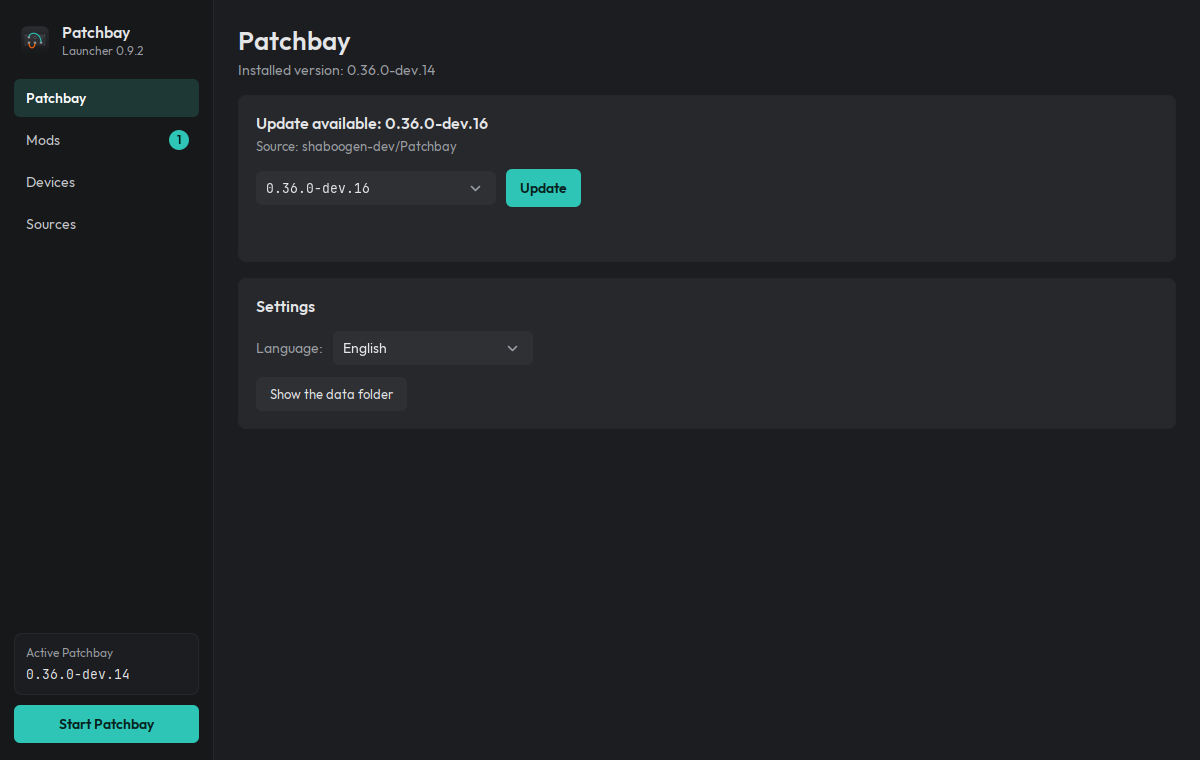
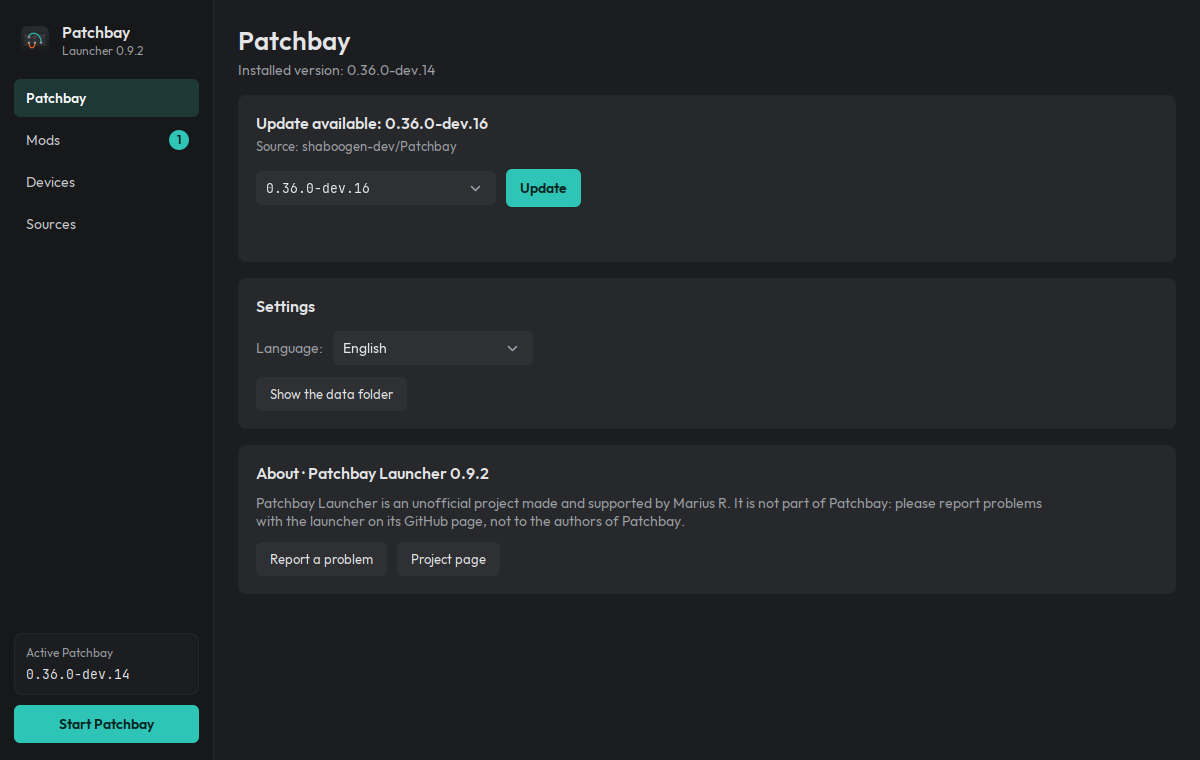
About card: made and supported by Marius R; Report a problem
As asked by Patchbay's author: make clear the launcher is a separate,
unofficial project supported by its own author, so support questions
come here and not to Patchbay.
- About card in the Patchbay section with "Report a problem" (this
  repository's Issues) and "Project page"; Polish, English, German, French.
- Support note in the Windows and macOS install texts.

Claude-Session: https://claude.ai/code/session_01NY4XL7uJczLdFhWieRK4LM

Changed region(s): [[0.2158, 0.6053, 0.8633, 0.6961], [0.2158, 0.7263, 0.3083, 0.7566], [0.3392, 0.7263, 0.4008, 0.7566]]

diff --git a/src/PatchbayLauncher.java b/src/PatchbayLauncher.java
@@ -516,11 +516,50 @@ public final class PatchbayLauncher {
         settings.add(s, BorderLayout.CENTER);
         settings.setAlignmentX(Component.LEFT_ALIGNMENT);
         col.add(settings);
+        col.add(Box.createVerticalStrut(16));
+        col.add(aboutCard());
 
         JPanel top = new JPanel(new BorderLayout());
         top.setOpaque(false);
         top.add(col, BorderLayout.NORTH);
         return Theme.page("Patchbay", installedLabel, null, top, null, null);
+    }
+
+    /** The launcher's own GitHub page, where its problems are reported (not Patchbay's). */
+    static final String PROJECT = "https://github.com/arius77R/patchbay-launcher";
+
+    /** Who makes the launcher and where to report problems with it, so they don't go to Patchbay's authors. */
+    private JPanel aboutCard() {
+        JPanel card = new Theme.Card(new BorderLayout(), Theme.FRAME);
+        card.setBorder(new EmptyBorder(18, 18, 18, 18));
+        JPanel a = new JPanel();
+        a.setOpaque(false);
+        a.setLayout(new BoxLayout(a, BoxLayout.Y_AXIS));
+        JLabel head = Theme.label(t("O aplikacji", "About") + " · Patchbay Launcher " + VERSION, Theme.bold(16f), Theme.TEXT);
+        head.setAlignmentX(Component.LEFT_ALIGNMENT);
+        a.add(head);
+        a.add(Box.createVerticalStrut(10));
+        JLabel who = Theme.wrapped(t(
+            "Patchbay Launcher to nieoficjalny projekt, który tworzy i wspiera Marius R. Nie jest częścią Patchbay: problemy z Launcherem zgłaszaj na jego stronie na GitHubie, a nie autorom Patchbay.",
+            "Patchbay Launcher is an unofficial project made and supported by Marius R. It is not part of Patchbay: please report problems with the launcher on its GitHub page, not to the authors of Patchbay."),
+            620, Theme.MUTED, 14f);
+        who.setAlignmentX(Component.LEFT_ALIGNMENT);
+        a.add(who);
+        a.add(Box.createVerticalStrut(12));
+        JButton report = Theme.button(t("Zgłoś problem", "Report a problem"), "secondary");
+        report.addActionListener(e -> browse(PROJECT + "/issues"));
+        JButton page = Theme.button(t("Strona projektu", "Project page"), "secondary");
+        page.addActionListener(e -> browse(PROJECT));
+        JPanel links = Theme.row(10, report, page);
+        links.setAlignmentX(Component.LEFT_ALIGNMENT);
+        a.add(links);
+        card.add(a, BorderLayout.CENTER);
+        card.setAlignmentX(Component.LEFT_ALIGNMENT);
+        return card;
+    }
+
+    private static void browse(String url) {
+        try { Desktop.getDesktop().browse(java.net.URI.create(url)); } catch (Exception ignored) { }
     }
 
     private void show() {

diff --git a/src/I18n.java b/src/I18n.java
@@ -183,6 +183,11 @@ final class I18n {
         add("Settings", "Einstellungen", "Réglages");
         add("Language", "Sprache", "Langue");
         add("Show the data folder", "Datenordner zeigen", "Afficher le dossier des données");
+        add("About", "Über", "À propos");
+        add("Report a problem", "Problem melden", "Signaler un problème");
+        add("Patchbay Launcher is an unofficial project made and supported by Marius R. It is not part of Patchbay: please report problems with the launcher on its GitHub page, not to the authors of Patchbay.",
+            "Patchbay Launcher ist ein inoffizielles Projekt, das Marius R entwickelt und betreut. Es ist kein Teil von Patchbay: Probleme mit dem Launcher bitte auf seiner GitHub-Seite melden, nicht bei den Autoren von Patchbay.",
+            "Patchbay Launcher est un projet non officiel créé et maintenu par Marius R. Il ne fait pas partie de Patchbay : signalez les problèmes du lanceur sur sa page GitHub, pas aux auteurs de Patchbay.");
         add("Click a mod in the list to see what it does and needs.", "Klicke auf einen Mod in der Liste, um zu sehen, was er macht und braucht.", "Cliquez sur un mod de la liste pour voir ce qu'il fait et ce qu'il nécessite.");
         add("Author", "Autor", "Auteur");
         add("Built for", "Gebaut für", "Compilé pour");

diff --git a/CHANGELOG.md b/CHANGELOG.md
@@ -6,6 +6,7 @@
 - GitHub answers are cached with their ETag: unchanged lists don't count against GitHub's hourly limit, and when GitHub can't be reached or is rate-limiting, the last list is shown instead of an empty one. A failed request is retried once.
 - Mods: up to 500 releases per source are read (100 per page) instead of 30, so older mods no longer drop out of the catalogue.
 - Mod details show which Bitwig version the mod was built for (`built_against` in its manifest).
+- About card in the Patchbay section: the launcher is an unofficial project made and supported by Marius R; "Report a problem" opens this repository's Issues. The same note is in the README and the install notes.
 - A refresh asked for while the list is loading (after changing sources, say) now runs when the first one ends.
 
 ## 0.9.1
